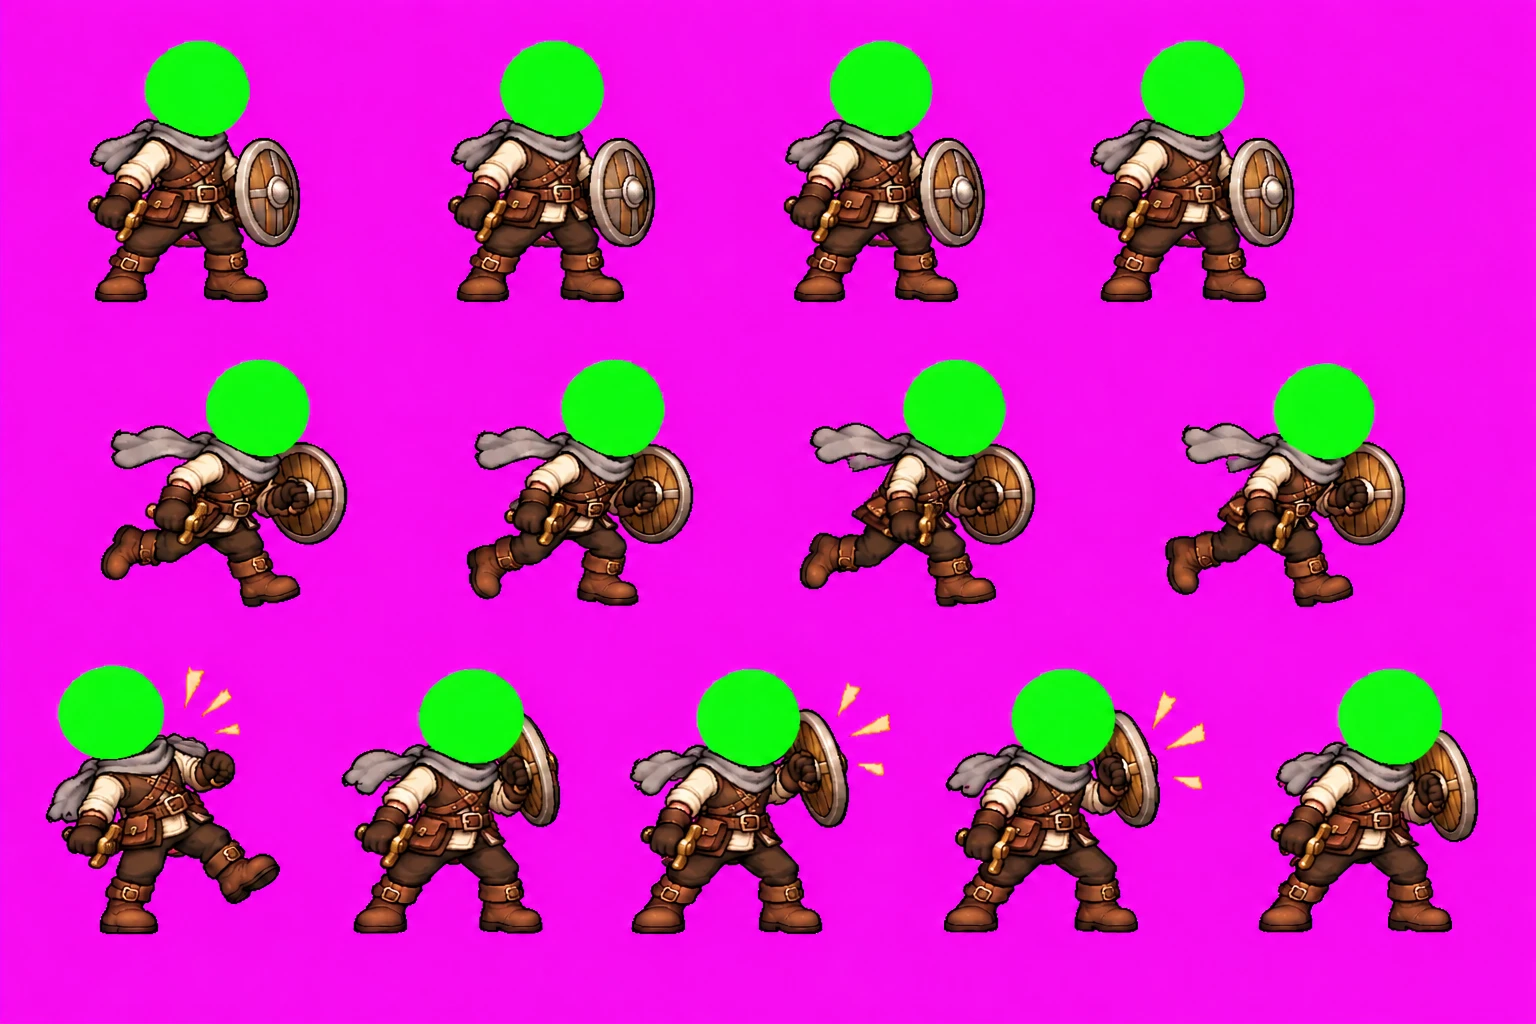
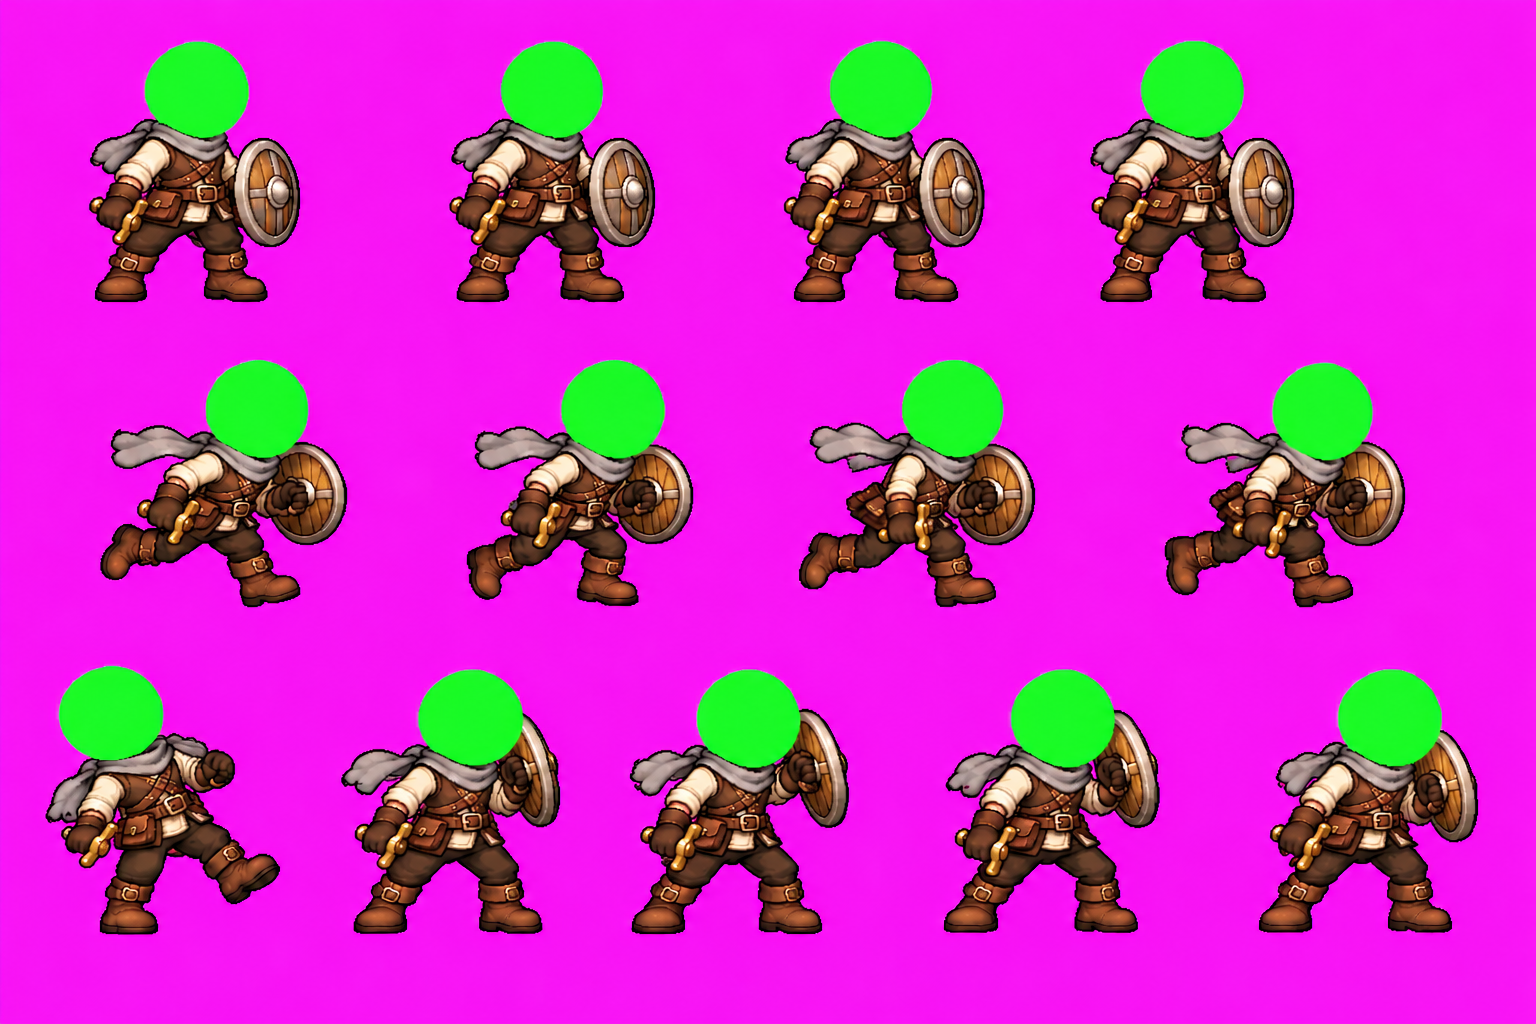
Figuren-Blätter von Marco abgelegt

diff --git a/FORTSCHRITT.md b/FORTSCHRITT.md
@@ -166,6 +166,8 @@ Wird nach jedem Arbeitsschritt aktualisiert.
 
 - **Neu (01.11.): D1 Bildaufträge für die Figuren:** 113 Prompts in `Spieldesign/GRAFIK_AUFTRAG.md` Teil D und auf der Seite „Asterfall Bildaufträge“: Probe am Novizen, fünf Klassen, Baukasten, 21 Nebenfiguren und 19 Hauptfiguren. Die Haupt- und Nebenfiguren waren noch nicht eingeplant: Sie sind im Spiel bisher Platzhalter.
   - Geändert nach Marcos erstem Versuch: Beim Novizen bleibt der Griff in der Hand, nur die Klinge geht weg. Körper-Prompts nennen keine Waffe und keine Klasse mehr. Marcos Blatt liegt als `tools/vorlagen/novize_m_kampf_a_ohne_klinge.png` bereit (gelbe Funken entfernt Claude in D2).
+  - Geliefert (02.11.): 38 Blätter liegen unter `tools/vorlagen/` (Novize ohne Klinge, Kurzschwert, Probe-Hut, Probe-Umhang, Waffen und Rückenteile der Klassen, Körper der fünf Klassen). Es fehlt die Klingentänzerin Blatt 1 (`klingentaenzer_w_blatt1.png`). Noch nicht geliefert: Figuren 3 bis 5 (Grundkörper, Köpfe, Neben- und Hauptfiguren).
+  - Beim Einbauen von Claude zu beheben: gelbe Funken bei `schmied_m_blatt1` und `klingentaenzer_m_blatt1`, grüne Stellen auf dem Rücken bei `zaehmer_w_welt`, rotes Halstuch in einem Bild bei `saengerin_w_blatt2`, blasse Farben bei `bogen_m_welt`, je ein Bild zu viel in Reihe 3 bei `bogen_m_blatt2` und `bogen_w_blatt2`.
   - **Von Marco zu entscheiden:** Kobalt nutzt in den Prompts den Körper des Zähmers. Die Sternensängerin gibt es vorerst nur weiblich (Marco, 01.11.).
   - **So testest du es:** Die Seite öffnen, bei „Figuren: Probe“ einen Prompt kopieren und das Bild erzeugen.
 
